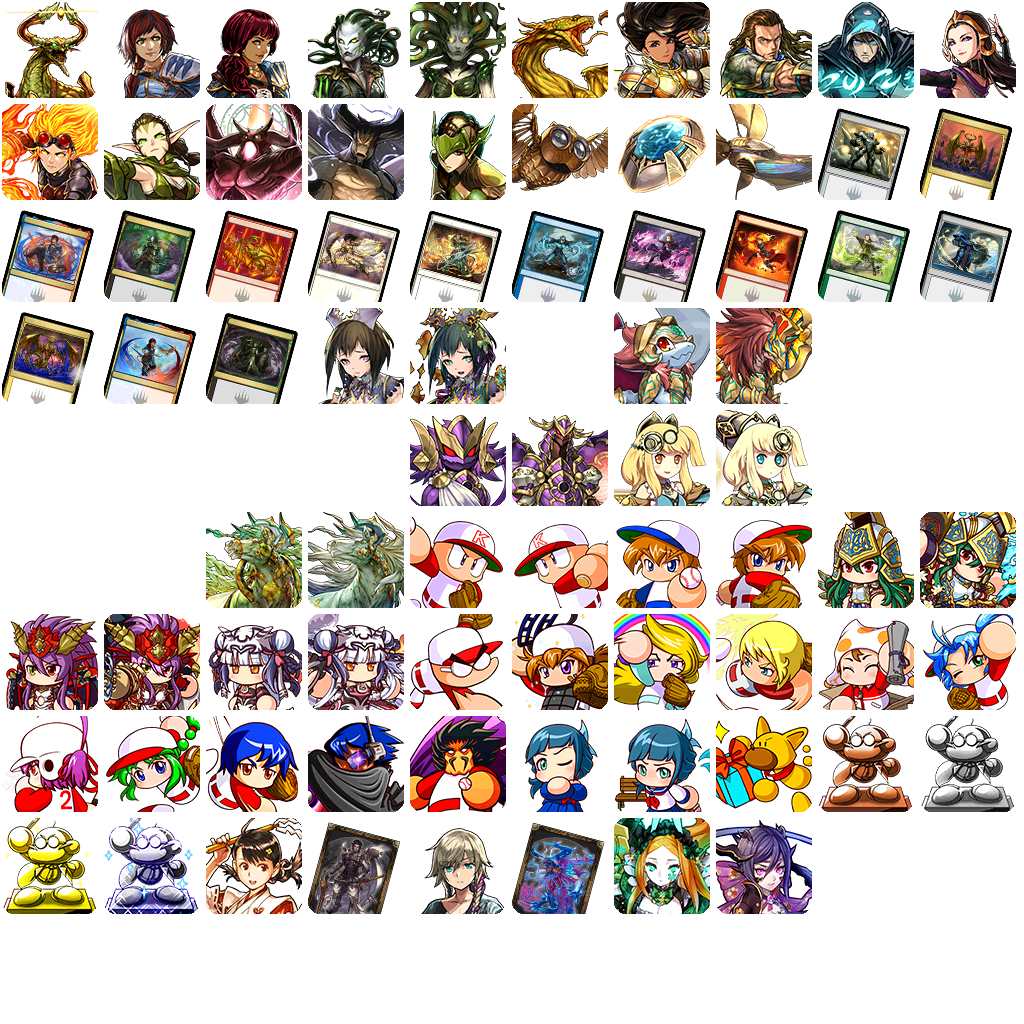
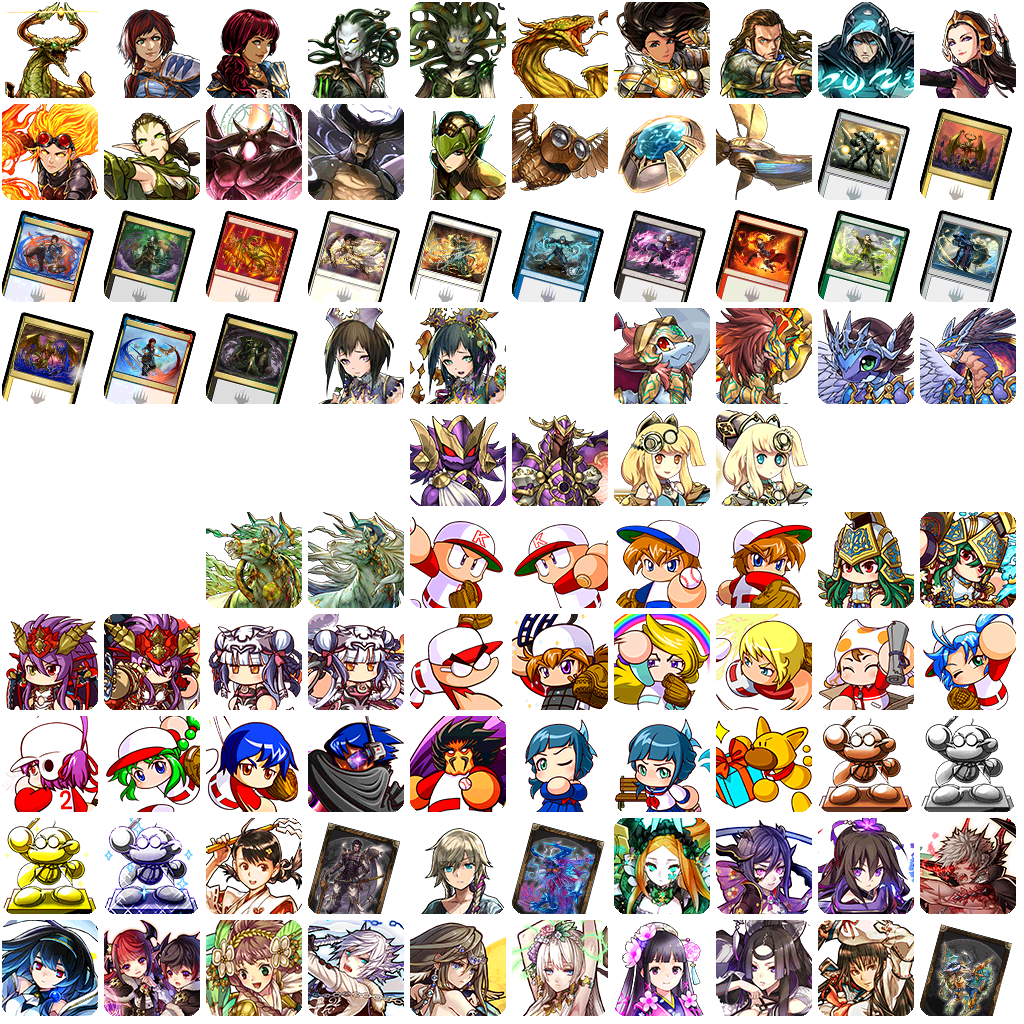
新增老头武器

Changed region(s): [[0.0, 0.7812, 1.0, 1.0], [0.7812, 0.2812, 1.0, 0.4062]]

diff --git a/生成二技宠物JSON.js b/生成二技宠物JSON.js
@@ -130,6 +130,17 @@ var monsterList = [
     {group: "本家特别版角色（限时）",ids: [
         4226, //情人節巧克力【四神】
     ]},
+    {group: "GungHo其他游戏合作（限时）",ids: [
+        4723, //神機普路托斯的卡
+    ]},
+    {group: "宠物交换所（免费宠兑换）：GungHo其他游戏合作（限时）",ids: [
+        4687, //SO135-阿蕾斯達
+        4684, //豪武官田村麻呂的卡
+    ]},
+    {group: "友情桶：GungHo其他游戏合作（限时）",ids: [
+        4712, //破滅之化身堤豐的卡
+        4713, //悲劇之姬海倫的卡
+    ]},
     {group: "第三方合作（限时）",ids: [
         3629, //告知時代終結的黒龍・亞克諾羅基亞
         3804, //亚兹曼特
@@ -150,13 +161,52 @@ var monsterList = [
         4672, //早川葵
         4678, //干達
     ]},
-    {group: "宠物交换所（免费宠兑换）：GungHo其他游戏合作（限时）",ids: [
-        4687, //SO135-阿蕾斯達
-        4684, //豪武官田村麻呂的卡
+    {group: "MP商店：不限时购买",ids: [
+        3447, //火古龍的裝甲Ｘ龍喚士・安娜
+        3330, //異刻之黑龍喚士・索妮亞
+        4296, //帝國之守護神・雅典娜
+        3194, //焰刻之時龍契士・美瑠
+        3192, //煌雷神・赫拉龍
+        3338, //炎柱的護衛神・阿蒙
+        3340, //水柱的護衛神・姆特
+        3342, //地柱的護衛神・孔斯
     ]},
-    {group: "友情桶：GungHo其他游戏合作（限时）",ids: [
-        4712, //破滅之化身堤豐的卡
-        4713, //悲劇之姬海倫的卡
+    {group: "MP商店：普通期间限定商品",ids: [
+        3782, //木之宮孝男
+        3865, //御坊茶魔
+        4017, //星馬烈
+        4018, //星馬豪
+        4125, //薯餅
+    ]},
+    {group: "MP商店：本家特别版角色，期间限定商品（可能不全）",ids: [
+        2290, //雪白的美公主・女武神葛雷婭
+        2407, //古城的女主神・迦梨
+        3222, //紅蘭之黑魔女・尚美
+        2512, //聖夜的赤龍喚士・索妮亞
+        2533, //遊山的天舞神・天照大神
+        2950, //疾走的新郎・赤龍契士 加狄烏斯
+        4343, //樂隊的麒麟姬・朔夜
+    ]},
+    {group: "MP商店：GungHo其他游戏合作，期间限定商品",ids: [
+        4686, //大海獸俄刻阿諾斯的卡
+        4688, //黑白合
+    ]},
+    {group: "MP商店：第三方合作，期间限定商品（可能不全）",ids: [
+        3167, //蒼藍團長多吉龍劍
+        2569, //翠輝星的麒麟・朔夜 Another
+        4677, //經理人・津乃田梨亞
+    ]},
+    {group: "MP商店：第三方合作-怪物猎人装备",ids: [
+        3705, //猎人♂・雄火龙X装备
+        3706, //猎人♂・泡狐龙X装备
+        3707, //猎人♂・鏖魔装备
+        4171, //猎人♂・碎龙 X 装备
+        4172, //猎人♂・灭尽龙 X 装备
+        3709, //猎人♀・麒麟X装备
+        3710, //猎人♀・迅龙X装备
+        3711, //猎人♀・斩龙X装备
+        4173, //猎人♀・冰牙龙X装备
+        4174, //猎人♀・风漂龙X装备
     ]},
     {group: "雷达捡徽章奖励（仅日本能捡到）：美化龙",ids: [
         1109, //炎天雙極星・伊弗里特
@@ -200,53 +250,6 @@ var monsterList = [
         3910, //瞬刻的白龍喚士・索妮亞＝艾璐
         4297, //冥黑神・拉＝龍
         4576, //水都之守護神・雅典娜
-    ]},
-    {group: "MP商店：不限时购买",ids: [
-        3447, //火古龍的裝甲Ｘ龍喚士・安娜
-        3330, //異刻之黑龍喚士・索妮亞
-        4296, //帝國之守護神・雅典娜
-        3194, //焰刻之時龍契士・美瑠
-        3192, //煌雷神・赫拉龍
-        3338, //炎柱的護衛神・阿蒙
-        3340, //水柱的護衛神・姆特
-        3342, //地柱的護衛神・孔斯
-    ]},
-    {group: "MP商店：普通期间限定商品",ids: [
-        3782, //木之宮孝男
-        3865, //御坊茶魔
-        4017, //星馬烈
-        4018, //星馬豪
-        4125, //薯餅
-    ]},
-    {group: "MP商店：本家特别版角色，期间限定商品（可能不全）",ids: [
-        2290, //雪白的美公主・女武神葛雷婭
-        2407, //古城的女主神・迦梨
-        3222, //紅蘭之黑魔女・尚美
-        2512, //聖夜的赤龍喚士・索妮亞
-        2533, //遊山的天舞神・天照大神
-        2950, //疾走的新郎・赤龍契士 加狄烏斯
-        4343, //樂隊的麒麟姬・朔夜
-    ]},
-    {group: "MP商店：第三方合作，期间限定商品（可能不全）",ids: [
-        3167, //蒼藍團長多吉龍劍
-        2569, //翠輝星的麒麟・朔夜 Another
-        4677, //經理人・津乃田梨亞
-    ]},
-    {group: "MP商店：第三方合作-怪物猎人装备",ids: [
-        3705, //猎人♂・雄火龙X装备
-        3706, //猎人♂・泡狐龙X装备
-        3707, //猎人♂・鏖魔装备
-        4171, //猎人♂・碎龙 X 装备
-        4172, //猎人♂・灭尽龙 X 装备
-        3709, //猎人♀・麒麟X装备
-        3710, //猎人♀・迅龙X装备
-        3711, //猎人♀・斩龙X装备
-        4173, //猎人♀・冰牙龙X装备
-        4174, //猎人♀・风漂龙X装备
-    ]},
-    {group: "MP商店：GungHo其他游戏合作，期间限定商品",ids: [
-        4686, //大海獸俄刻阿諾斯的卡
-        4688, //黑白合
     ]},
 ];
 
